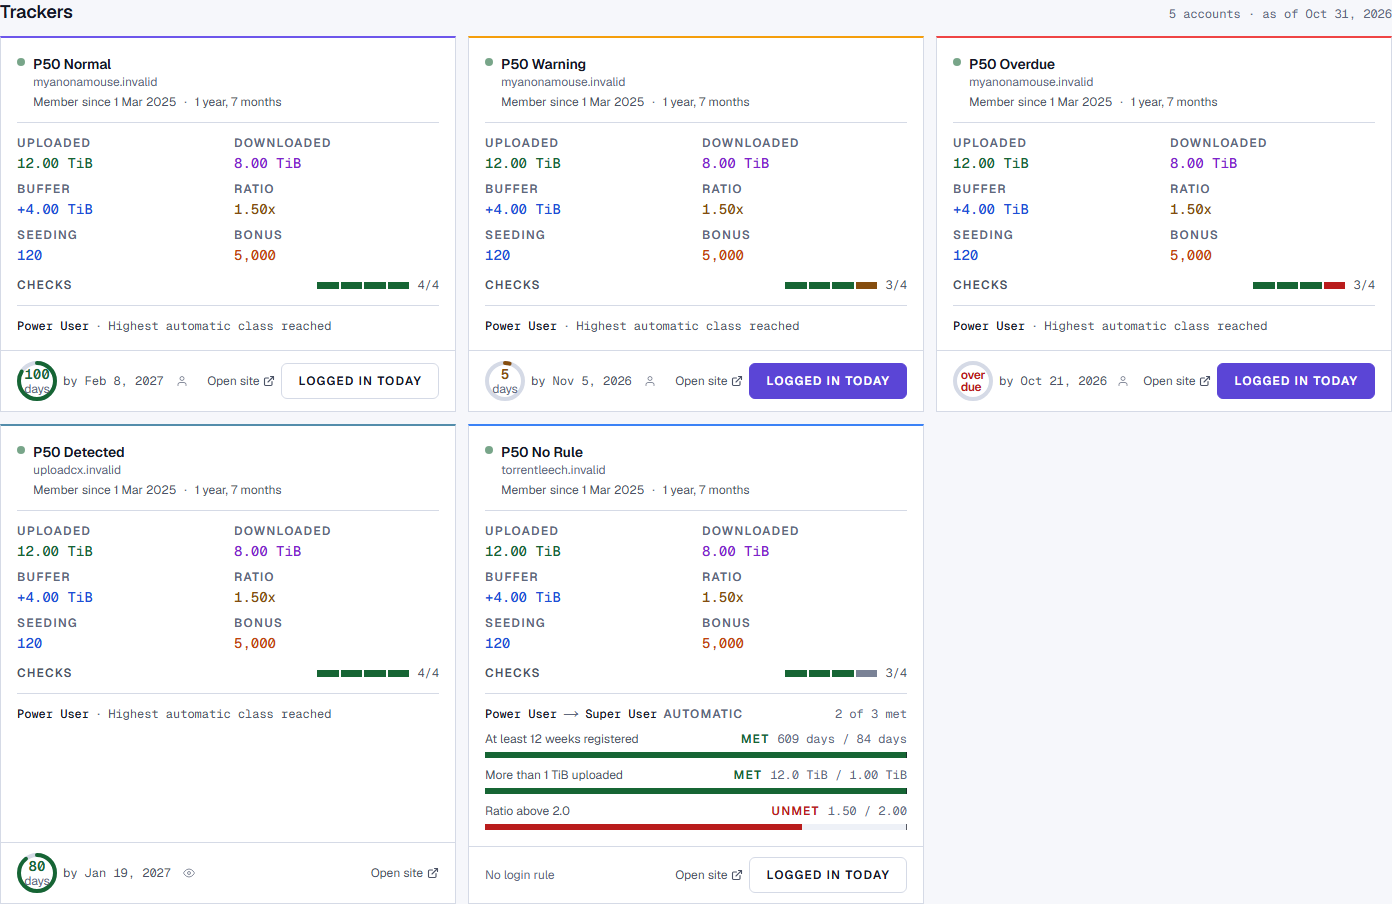
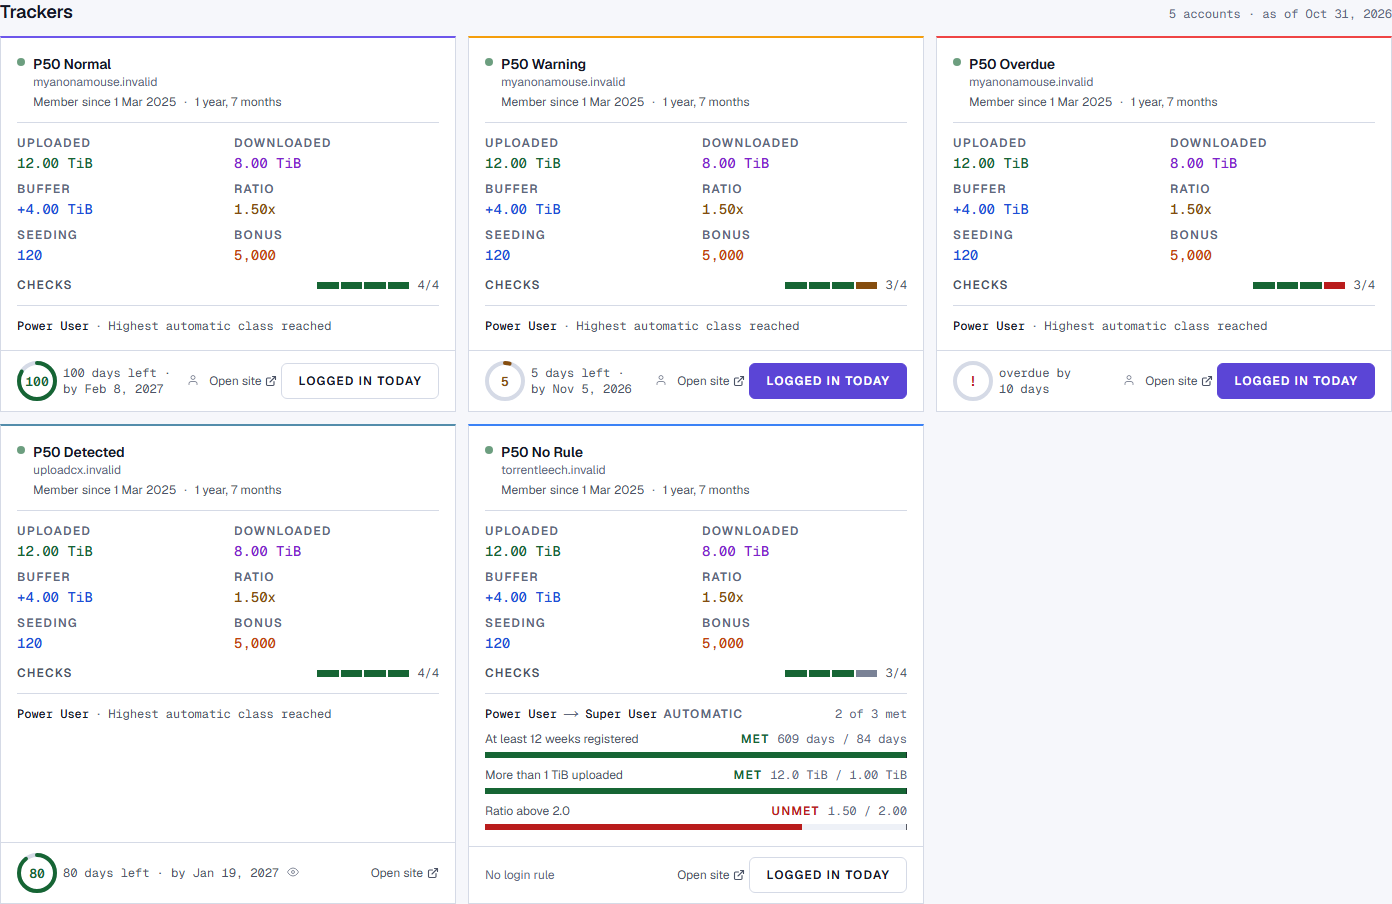
feat(dashboard): keep only the day count inside the login ring

diff --git a/src/components/dashboard/TrackerGrid.tsx b/src/components/dashboard/TrackerGrid.tsx
@@ -278,6 +278,7 @@ function LoginDeadlineReadout({ deadline }: { deadline: LoginDeadline }) {
   const daysLeft = deadline.dueInDays ?? 0
   const dueDate = formatDate(deadline.dueAt)
   const daysLabel = daysLeft === 1 ? "day" : "days"
+  const overdueLabel = overdueDays === 1 ? "day" : "days"
   const color =
     overdueDays !== null
       ? "var(--color-danger)"
@@ -300,29 +301,38 @@ function LoginDeadlineReadout({ deadline }: { deadline: LoginDeadline }) {
       >
         {overdueDays !== null ? (
           <span
-            className="font-cond text-[12px] font-semibold leading-[12px] tracking-[-0.02em]"
+            className="font-mono text-[14px] font-semibold leading-none"
             style={{ color }}
+            data-ring-value
           >
-            over
-            <br />
-            due
+            !
           </span>
         ) : (
-          <>
-            <span
-              className="font-mono text-sm font-semibold leading-none tabular-nums"
-              style={{ color }}
-            >
-              {daysLeft}
-            </span>
-            <span className="mt-0.5 font-cond text-[12px] leading-[12px] text-tertiary">
-              {daysLabel}
-            </span>
-          </>
+          <span
+            className="font-mono text-[13px] font-semibold leading-none tabular-nums"
+            style={{ color }}
+            data-ring-value
+          >
+            {daysLeft}
+          </span>
         )}
       </DeadlineRing>
-      <span className="whitespace-nowrap font-mono text-xs text-secondary" data-login-by>
-        by {dueDate}
+      <span className="min-w-0 font-mono text-xs text-secondary" data-login-by>
+        {overdueDays !== null ? (
+          <>
+            overdue by{" "}
+            <span className="whitespace-nowrap">
+              {overdueDays} {overdueLabel}
+            </span>
+          </>
+        ) : (
+          <>
+            <span className="whitespace-nowrap">
+              {daysLeft} {daysLabel}
+            </span>{" "}
+            left · <span className="whitespace-nowrap">by&nbsp;{dueDate}</span>
+          </>
+        )}
       </span>
     </div>
   )
@@ -337,7 +347,7 @@ function LoginSourceIcon({ source }: { source: "detected" | "manual" }) {
         type="button"
         aria-label={label}
         data-login-source={source}
-        className="inline-flex h-11 w-11 items-center justify-center rounded-nm-sm text-tertiary transition-colors duration-150 hover:text-secondary focus-visible:outline-none focus-visible:ring-2 focus-visible:ring-[color:var(--color-focus)] focus-visible:ring-offset-1 focus-visible:ring-offset-base sm:h-6 sm:w-6"
+        className="inline-flex h-11 w-11 items-center justify-center rounded-nm-sm text-tertiary transition-colors duration-150 hover:text-secondary focus-visible:outline-none focus-visible:ring-2 focus-visible:ring-[color:var(--color-focus)] focus-visible:ring-offset-1 focus-visible:ring-offset-base sm:h-5 sm:w-5"
       >
         <Icon width="12" height="12" aria-hidden="true" />
       </button>
@@ -598,17 +608,17 @@ function TrackerCard({
       </Link>
 
       <div
-        className="flex min-w-0 flex-wrap items-center gap-x-2 gap-y-2 border-t border-border px-4 py-2.5"
+        className="flex min-w-0 flex-wrap items-center gap-x-1.5 gap-y-2 border-t border-border px-4 py-2.5"
         data-card-footer
       >
-        <div className="flex min-w-0 flex-wrap items-center gap-x-1.5 gap-y-1 xl:flex-1 xl:flex-nowrap">
+        <div className="flex min-w-0 flex-wrap items-center gap-x-1 gap-y-1 xl:flex-1 xl:flex-nowrap">
           <LoginDeadlineReadout deadline={loginDeadline} />
           {loginSource === "none" || !loginDeadline.hasRule ? null : (
             <LoginSourceIcon source={loginSource} />
           )}
         </div>
         <div
-          className="flex w-full flex-wrap items-center gap-1.5 sm:ml-auto sm:w-auto sm:justify-end"
+          className="flex w-full flex-wrap items-center gap-1 sm:ml-auto sm:w-auto sm:justify-end"
           data-card-footer-actions
         >
           <a

diff --git a/src/components/dashboard/__tests__/TrackerGrid.test.tsx b/src/components/dashboard/__tests__/TrackerGrid.test.tsx
@@ -442,7 +442,9 @@ describe("TrackerGrid", () => {
       screen.getByLabelText("Login due in 117 days, by Feb 22, 2027")
     ).toBeInTheDocument()
     expect(screen.getByText("117")).toBeInTheDocument()
-    expect(screen.getByText("by Feb 22, 2027")).toBeInTheDocument()
+    expect(document.querySelector("[data-login-by]")).toHaveTextContent(
+      /117 days left · by\s+Feb 22, 2027/
+    )
     expect(screen.getByRole("button", { name: "Logged in today" })).toBeInTheDocument()
 
     rerender(
@@ -603,7 +605,28 @@ describe("TrackerGrid", () => {
     expect(actions).toHaveClass("flex-wrap")
     expect(actions).toHaveClass("w-full")
     expect(actions).toHaveClass("sm:w-auto")
-    expect(container.querySelector("[data-login-by]")).toHaveClass("whitespace-nowrap")
+    expect(container.querySelector("[data-login-by]")).toHaveClass("min-w-0")
+  })
+
+  it("keeps only the day number in the ring and moves the unit beside it", () => {
+    render(
+      <TrackerGrid
+        trackers={[manualTracker({ lastAccessAt: "2026-10-25" })]}
+        summaries={[summary()]}
+        now={NOW}
+      />
+    )
+    const ring = screen.getByLabelText("Login due in 117 days, by Feb 22, 2027")
+    const value = ring.querySelector("[data-ring-value]")
+    if (!value) throw new Error("ring value not found")
+
+    expect(value).toHaveTextContent(/^117$/)
+    expect(value).toHaveClass("text-[13px]", "tabular-nums", "font-mono")
+    expect(ring).not.toHaveTextContent("days")
+    expect(ring).toHaveStyle({ width: "40px", height: "40px" })
+    expect(document.querySelector("[data-login-by]")).toHaveTextContent(
+      /117 days left · by\s+Feb 22, 2027/
+    )
   })
 
   it("shows the login deadline ring in the state's tone", () => {
@@ -616,7 +639,10 @@ describe("TrackerGrid", () => {
     )
     const overdueRing = screen.getByLabelText("Login overdue by 29 days, due by Sep 29, 2026")
     expect(overdueRing.closest("[data-login-ring]")).toHaveAttribute("data-login-tone", "crit")
-    expect(overdueRing).toHaveTextContent("overdue")
+    expect(overdueRing).toHaveTextContent(/^!$/)
+    const overdueValue = overdueRing.querySelector("[data-ring-value]")
+    expect(overdueValue).toHaveClass("text-[14px]")
+    expect(document.querySelector("[data-login-by]")).toHaveTextContent("overdue by 29 days")
     expect(container.querySelectorAll("circle")[1]?.getAttribute("stroke")).toBe(
       "var(--color-danger)"
     )
@@ -647,6 +673,7 @@ describe("TrackerGrid", () => {
     // 119 days elapsed of a 120-day rule: still inside the warning window.
     const warningRing = screen.getByLabelText(/Login due in 1 day/)
     expect(warningRing.closest("[data-login-ring]")).toHaveAttribute("data-login-tone", "warn")
+    expect(document.querySelector("[data-login-by]")).toHaveTextContent(/1 day left · by\s+Oct 29, 2026/)
     expect(container.querySelectorAll("circle")[1]?.getAttribute("stroke")).toBe(
       "var(--color-warn)"
     )

diff --git a/e2e/p50.spec.ts b/e2e/p50.spec.ts
@@ -146,6 +146,26 @@ test.describe.serial("P50 login ring", () => {
       await expect(page.locator('[data-login-source="detected"]')).toHaveCount(1)
       await expect(page.locator('[data-login-source="manual"]')).toHaveCount(3)
 
+      const normalCard = page.locator(`[data-tracker-card="${ids[0]}"]`)
+      const normalRing = normalCard.locator("[data-login-ring]")
+      await expect(normalRing.locator("[data-ring-value]")).toHaveText("100")
+      await expect(normalRing.locator("[data-ring-value]")).toHaveCSS("font-size", "13px")
+      await expect(normalRing.locator("[data-ring-value]")).toHaveCSS(
+        "font-variant-numeric",
+        "tabular-nums"
+      )
+      await expect(normalCard.locator("[data-login-by]")).toContainText(/100 days left · by/)
+
+      const ringBox = await normalRing.locator('[role="img"]').boundingBox()
+      const valueBox = await normalRing.locator("[data-ring-value]").boundingBox()
+      if (!ringBox || !valueBox) throw new Error("ring or value box missing")
+      expect(valueBox.x - ringBox.x).toBeGreaterThan(4)
+      expect(ringBox.x + ringBox.width - (valueBox.x + valueBox.width)).toBeGreaterThan(4)
+
+      const overdueCard = page.locator(`[data-tracker-card="${ids[2]}"]`)
+      await expect(overdueCard.locator("[data-ring-value]")).toHaveText("!")
+      await expect(overdueCard.locator("[data-login-by]")).toHaveText(/overdue by 10 days/)
+
       const grid = page.locator("#main-content [data-tracker-grid]")
       await grid.scrollIntoViewIfNeeded()
 

diff --git a/e2e/visual.spec.ts b/e2e/visual.spec.ts
@@ -2306,7 +2306,8 @@ test.describe.serial("P48 login deadline visual evidence", () => {
 
     const overdue = grid.getByLabel(/Login overdue by 5 days/)
     await expect(overdue).toBeVisible()
-    await expect(overdue).toContainText("overdue")
+    await expect(overdue).toContainText("!")
+    await expect(grid.getByText("overdue by 5 days")).toBeVisible()
     await expect(grid.locator('[data-login-ring][data-login-tone="crit"]')).toHaveCount(1)
 
     await expect(grid.getByLabel(/Login due in 5 days/)).toBeVisible()
